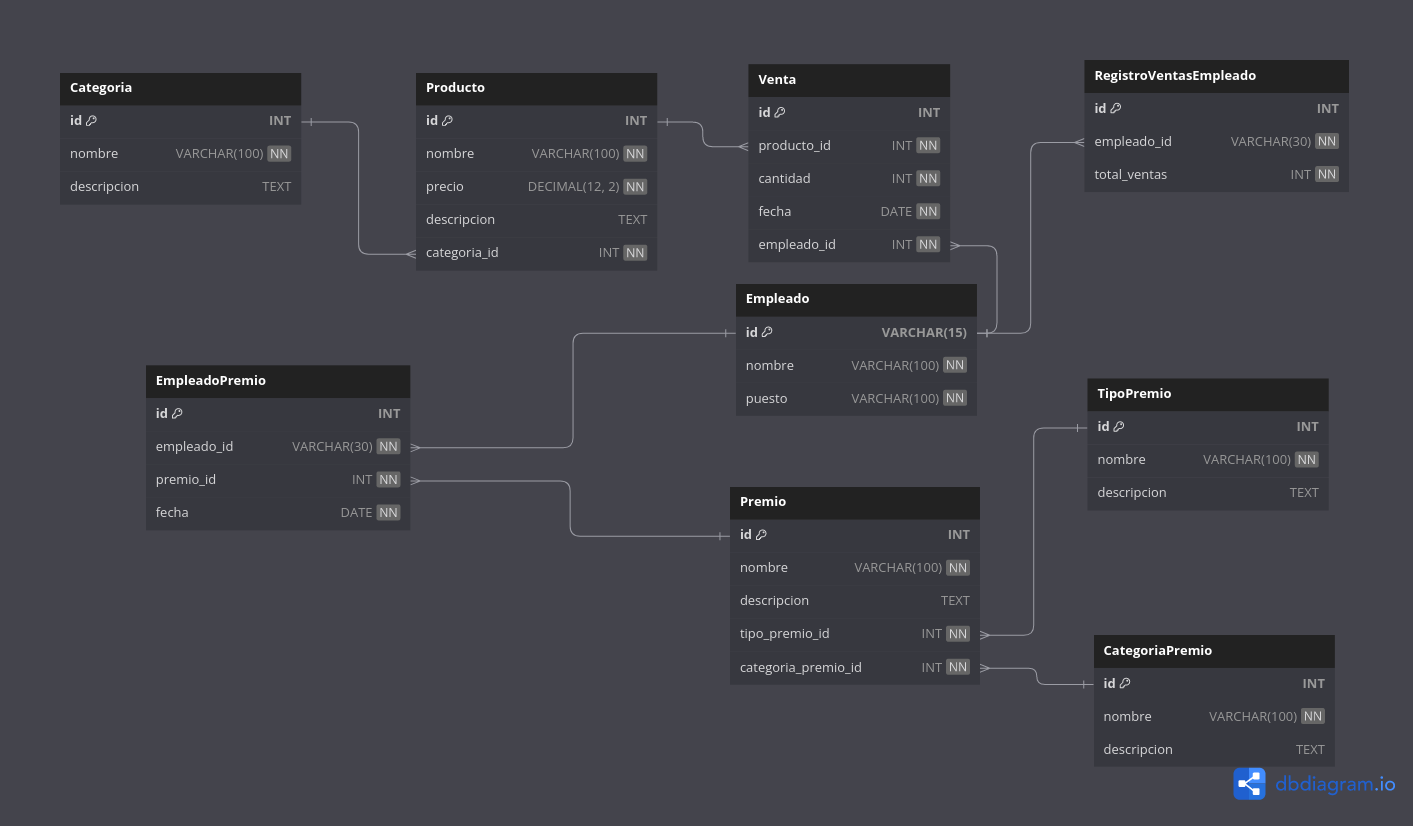
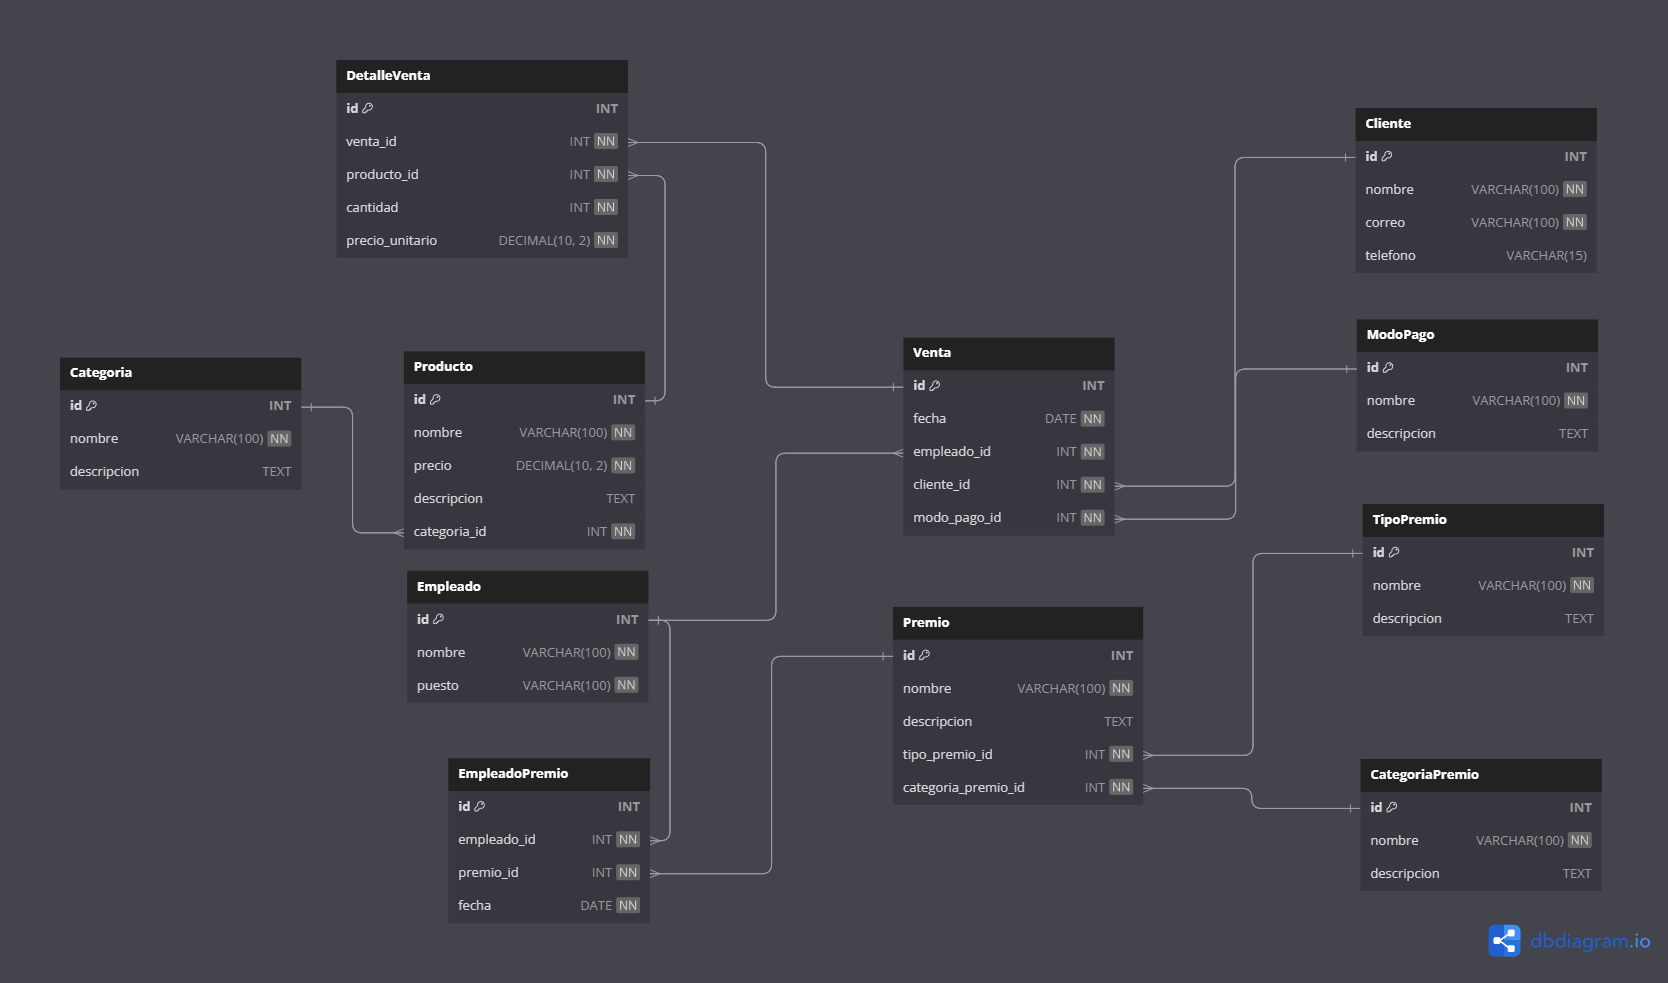
docs: :memo: Update README

diff --git a/README.md b/README.md
@@ -6,81 +6,70 @@ Ventas stonksn't es un proyecto de seguimiento de ventas diseñado para empresas
 
 ## Objetivo General
 
-El objetivo general de ventas stonksn't es ofrecer una plataforma fácil de usar para que las empresas puedan registrar y hacer un seguimiento de sus ventas de manera efectiva. La aplicación permitirá a los usuarios gestionar los productos, clientes, ventas y generar estadísticas de ventas. Además, se premiará a los empleados con grandes cantidades de ventas y se llevará un seguimiento de aquellos con ventas bajas.
+El objetivo del proyecto es desarrollar un sistema de gestión de estadísticas de productos y premiación para empleados en empresas pequeñas. El sistema permitirá realizar un seguimiento de las ventas de productos, generar estadísticas individuales y por categorías, y otorgar premios a los empleados que logren grandes cantidades de ventas, fomentando la motivación y reconocimiento del personal.
 
-## Objetivos Específicos
+## Objetivo Específico
 
-- Permitir el registro de ventas, incluyendo detalles como el producto vendido, la cantidad y la fecha.
-- Facilitar la gestión de productos y categorías de productos.
-- Generar informes y estadísticas detallados sobre las ventas por producto y categoría.
-- Premiar a los empleados con grandes cantidades de ventas.
-- Llevar un seguimiento de los empleados con ventas bajas.
-
-## Tecnologías Utilizadas
-
-- Backend: Node.js, Express
-- Base de Datos: MySQL
-- Frontend: React
-
-## Desarrollo
-
-El desarrollo de stonksn't se llevará a cabo en varias etapas:
-
-1. Backend:
-   - Se utilizará Node.js y Express para crear el servidor y la API RESTful.
-   - Se establecerá una conexión con la base de datos MySQL para almacenar y recuperar los datos necesarios.
-   - Se implementarán las rutas y controladores para las operaciones CRUD en las tablas de la base de datos.
-   - Se realizarán pruebas exhaustivas para garantizar la funcionalidad correcta del backend.
-2. Base de datos MySQL:
-   - Se creará una base de datos en MySQL para almacenar la información de los productos, categorías, ventas, empleados, premios, categoría de premio, tipo de premio y registro de ventas de empleados.
+El objetivo específico del sistema es proporcionar a las empresas pequeñas una herramienta eficiente y fácil de usar para analizar y mejorar sus ventas mediante el seguimiento y análisis de estadísticas de productos y el reconocimiento de los empleados con mejores desempeños.
 
 ## Descripción del Proyecto
 
-El sistema "stonksn't" se basa en el análisis estadístico de productos y la premiación a empleados destacados. El sistema consta de las siguientes entidades principales:
+El sistema se basa en el análisis estadístico de productos y la premiación a empleados destacados. El sistema consta de las siguientes entidades principales:
 
 ### Tablas de la Base de Datos
 
-1. **Categoría:** Almacena las categorías de los productos.
-   - `categoría_id` (PRIMARY KEY): Identificador único de la categoría.
+1. **Categoria:** Almacena las categorías de los productos.
+   - `id` (PRIMARY KEY): Identificador único de la categoría.
    - `nombre`: Nombre de la categoría.
-   - `descripción`: Descripción de la categoría.
+   - `descripcion`: Descripción de la categoría.
 2. **Producto:** Contiene la información de los productos vendidos.
-   - `producto_id` (PRIMARY KEY): Identificador único del producto.
+   - `id` (PRIMARY KEY): Identificador único del producto.
    - `nombre`: Nombre del producto.
    - `precio`: Precio del producto.
-   - `descripción`: Descripción del producto.
-   - `categoría_id` (FOREIGN KEY): Clave foránea que referencia la categoría del producto.
+   - `descripcion`: Descripción del producto.
+   - `categoria_id` (FOREIGN KEY): Clave foránea que referencia la categoría del producto.
 3. **Empleado:** Guarda la información de los empleados de la empresa.
-   - `empleado_id` (PRIMARY KEY): Identificador único del empleado.
+   - `id` (PRIMARY KEY): Identificador único del empleado.
    - `nombre`: Nombre del empleado.
    - `puesto`: Puesto o cargo del empleado en la empresa.
 4. **Venta:** Registra las ventas realizadas.
-   - `venta_id` (PRIMARY KEY): Identificador único de la venta.
-   - `producto_id` (FOREIGN KEY): Clave foránea que referencia el producto vendido.
-   - `cantidad`: Cantidad de productos vendidos.
+   - `id` (PRIMARY KEY): Identificador único de la venta.
    - `fecha`: Fecha de la venta.
    - `empleado_id` (FOREIGN KEY): Clave foránea que referencia al empleado que realizó la venta.
-5. **RegistroVentasEmpleado:** Almacena el total de ventas realizadas por cada empleado.
-   - `registro_id` (PRIMARY KEY): Identificador único del registro.
-   - `empleado_id` (FOREIGN KEY): Clave foránea que referencia al empleado.
-   - `total_ventas`: Total de ventas realizadas por el empleado.
+   - `cliente_id` (FOREIGN KEY): Clave foránea que referencia al cliente relacionado con la venta.
+   - `modo_pago_id` (FOREIGN KEY): Clave foránea que referencia el modo de pago utilizado.
+5. **DetalleVenta:** Almacena el detalle de cada venta realizada.
+   - `id` (PRIMARY KEY): Identificador único del detalle de venta.
+   - `venta_id` (FOREIGN KEY): Clave foránea que referencia la venta a la que pertenece el detalle.
+   - `producto_id` (FOREIGN KEY): Clave foránea que referencia el producto vendido.
+   - `cantidad`: Cantidad de productos vendidos.
+   - `precio_unitario`: Precio unitario del producto en la venta.
 6. **Premio:** Registra los premios otorgados a los empleados.
-   - `premio_id` (PRIMARY KEY): Identificador único del premio.
+   - `id` (PRIMARY KEY): Identificador único del premio.
    - `nombre`: Nombre del premio.
-   - `descripción`: Descripción del premio.
+   - `descripcion`: Descripción del premio.
    - `tipo_premio_id` (FOREIGN KEY): Clave foránea que referencia el tipo de premio.
-   - `categoría_premio_id` (FOREIGN KEY): Clave foránea que referencia la categoría del premio.
-7. **CategoríaPremio:** Almacena las categorías de premios.
-   - `categoría_premio_id` (PRIMARY KEY): Identificador único de la categoría de premio.
+   - `categoria_premio_id` (FOREIGN KEY): Clave foránea que referencia la categoría del premio.
+7. **CategoriaPremio:** Almacena las categorías de premios.
+   - `id` (PRIMARY KEY): Identificador único de la categoría de premio.
    - `nombre`: Nombre de la categoría de premio.
-   - `descripción`: Descripción de la categoría de premio.
+   - `descripcion`: Descripción de la categoría de premio.
 8. **TipoPremio:** Registra los tipos de premios (incentivo económico o no económico).
-   - `tipo_premio_id` (PRIMARY KEY): Identificador único del tipo de premio.
+   - `id` (PRIMARY KEY): Identificador único del tipo de premio.
    - `nombre`: Nombre del tipo de premio.
-   - `descripción`: Descripción del tipo de premio.
-9. **EmpleadoPremio:** Tabla de relación muchos a muchos que asocia empleados con los premios que han recibido.
-   - `empleado_id` (PRIMARY KEY, FOREIGN KEY): Identificador único del empleado que recibió el premio.
-   - `premio_id` (PRIMARY KEY, FOREIGN KEY): Identificador único del premio otorgado al empleado.
-   - `fecha`: Fecha en la que se otorgó el premio al empleado.
+   - `descripcion`: Descripción del tipo de premio.
+9. **Cliente:** Almacena la información de los clientes relacionados con las ventas.
+   - `id` (PRIMARY KEY): Identificador único del cliente.
+   - `nombre`: Nombre del cliente.
+   - `correo`: Correo electrónico del cliente.
+   - `telefono`: Número de teléfono del cliente.
+10. **ModoPago:** Registra los modos de pago utilizados en las ventas.
+    - `id` (PRIMARY KEY): Identificador único del modo de pago.
+    - `nombre`: Nombre del modo de pago.
+    - `descripcion`: Descripción del modo de pago.
+11. **EmpleadoPremio:** Tabla de relación muchos a muchos que asocia empleados con los premios que han recibido.
+    - `empleado_id` (PRIMARY KEY, FOREIGN KEY): Identificador único del empleado que recibió el premio.
+    - `premio_id` (PRIMARY KEY, FOREIGN KEY): Identificador único del premio otorgado al empleado.
+    - `fecha`: Fecha en la que se entregó el premio al empleado.
 
 <img src="./img/DatabaseStonksnt.png" alt="Database" style="zoom:33%;" />
